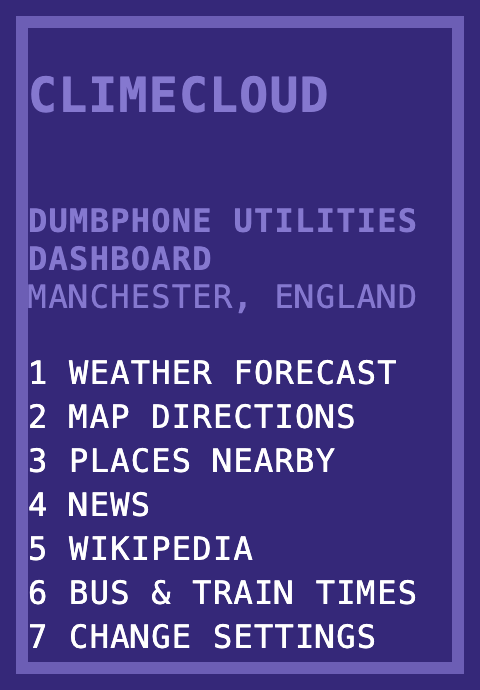
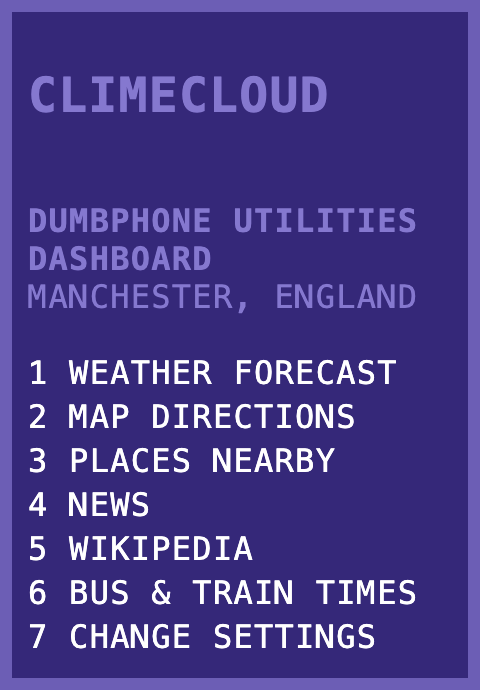
super funky styling options

Changed region(s): [[0.0, 0.0, 1.0, 1.0]]

diff --git a/app/assets/stylesheets/components/themes.css b/app/assets/stylesheets/components/themes.css
@@ -412,6 +412,16 @@ body[data-theme="c64"] {
   text-transform: uppercase;
   letter-spacing: 0.04em;
   border: 6px solid #6C5EB5;
+  /* The frame is the edge of the screen on the machine this borrows from, so the margin the
+   * browser gives body moves inside the border as padding instead, or the frame sits 8px in
+   * with the text against it.
+   *
+   * In em, so the gap is a proportion of the text it holds off the frame rather than a
+   * guess at what one line is worth: a handset rendering at 20px gets a wider gap, and at
+   * 12px it does not waste half the column on white space. The border stays a fixed 6px —
+   * it is the edge of the screen, not part of the text. */
+  margin: 0;
+  padding: 0.5em;
 }
 
 /* -------------------------------------------------------------- 22 barbie ---- */

diff --git a/test/system/theme_test.rb b/test/system/theme_test.rb
@@ -184,6 +184,42 @@ class ThemeTest < ApplicationSystemTestCase
                  page.evaluate_script("document.querySelector('.route').getBoundingClientRect().width").round
   end
 
+  # A style that draws a frame has to leave a gap inside it. The browser's body margin is
+  # what keeps text off the screen edge everywhere else, and a border sits outside that
+  # margin, so a framed style that keeps it has the frame 8px in and the text against it.
+  #
+  # Measured at three text sizes rather than one. A handset picks its own, and 16px is only
+  # what this desktop browser happens to render at: the gap has to survive a larger size
+  # without a sideways scroll, and a smaller one without disappearing.
+  test 'no style sets its text against its own frame at any text size' do
+    narrow_viewport
+
+    (Themes::NAMES - ['unstyled']).each do |name|
+      visit_with_theme(name)
+
+      ['', '12px', '24px'].each do |size|
+        border, gap, client, scroll = page.evaluate_script(<<~JS)
+          (() => {
+            document.documentElement.style.fontSize = '#{size}';
+            const width = parseFloat(getComputedStyle(document.body).borderLeftWidth);
+            const inside = document.body.getBoundingClientRect().left + width;
+            return [width,
+                    document.querySelector('.route').getBoundingClientRect().left - inside,
+                    document.documentElement.clientWidth,
+                    document.documentElement.scrollWidth];
+          })()
+        JS
+
+        next if border.zero?
+
+        at = size.presence || 'the default size'
+
+        assert_operator gap, :>=, 4, "#{name} sets its text #{gap}px from its own frame at #{at}"
+        assert_equal client, scroll, "#{name} scrolls sideways at #{at}"
+      end
+    end
+  end
+
   # text-transform is not part of the font shorthand, so a control keeps its own case
   # unless told to inherit — which leaves the one button on the page in sentence case while
   # everything around it is capitals.
